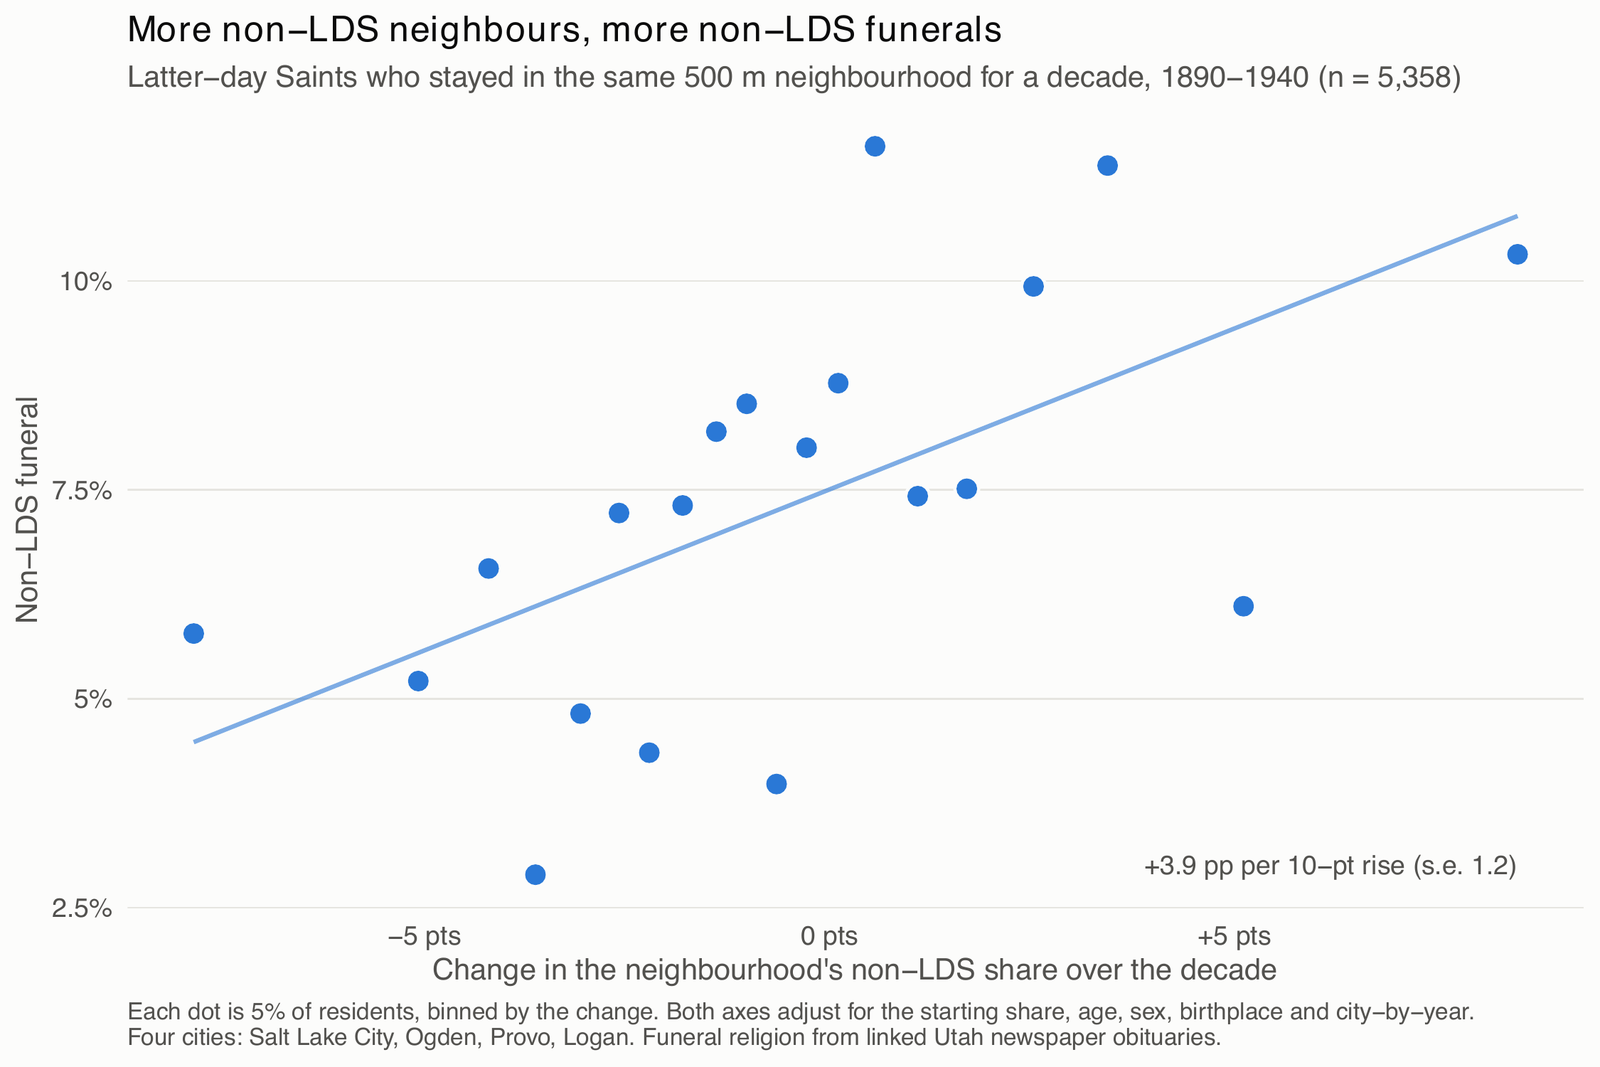
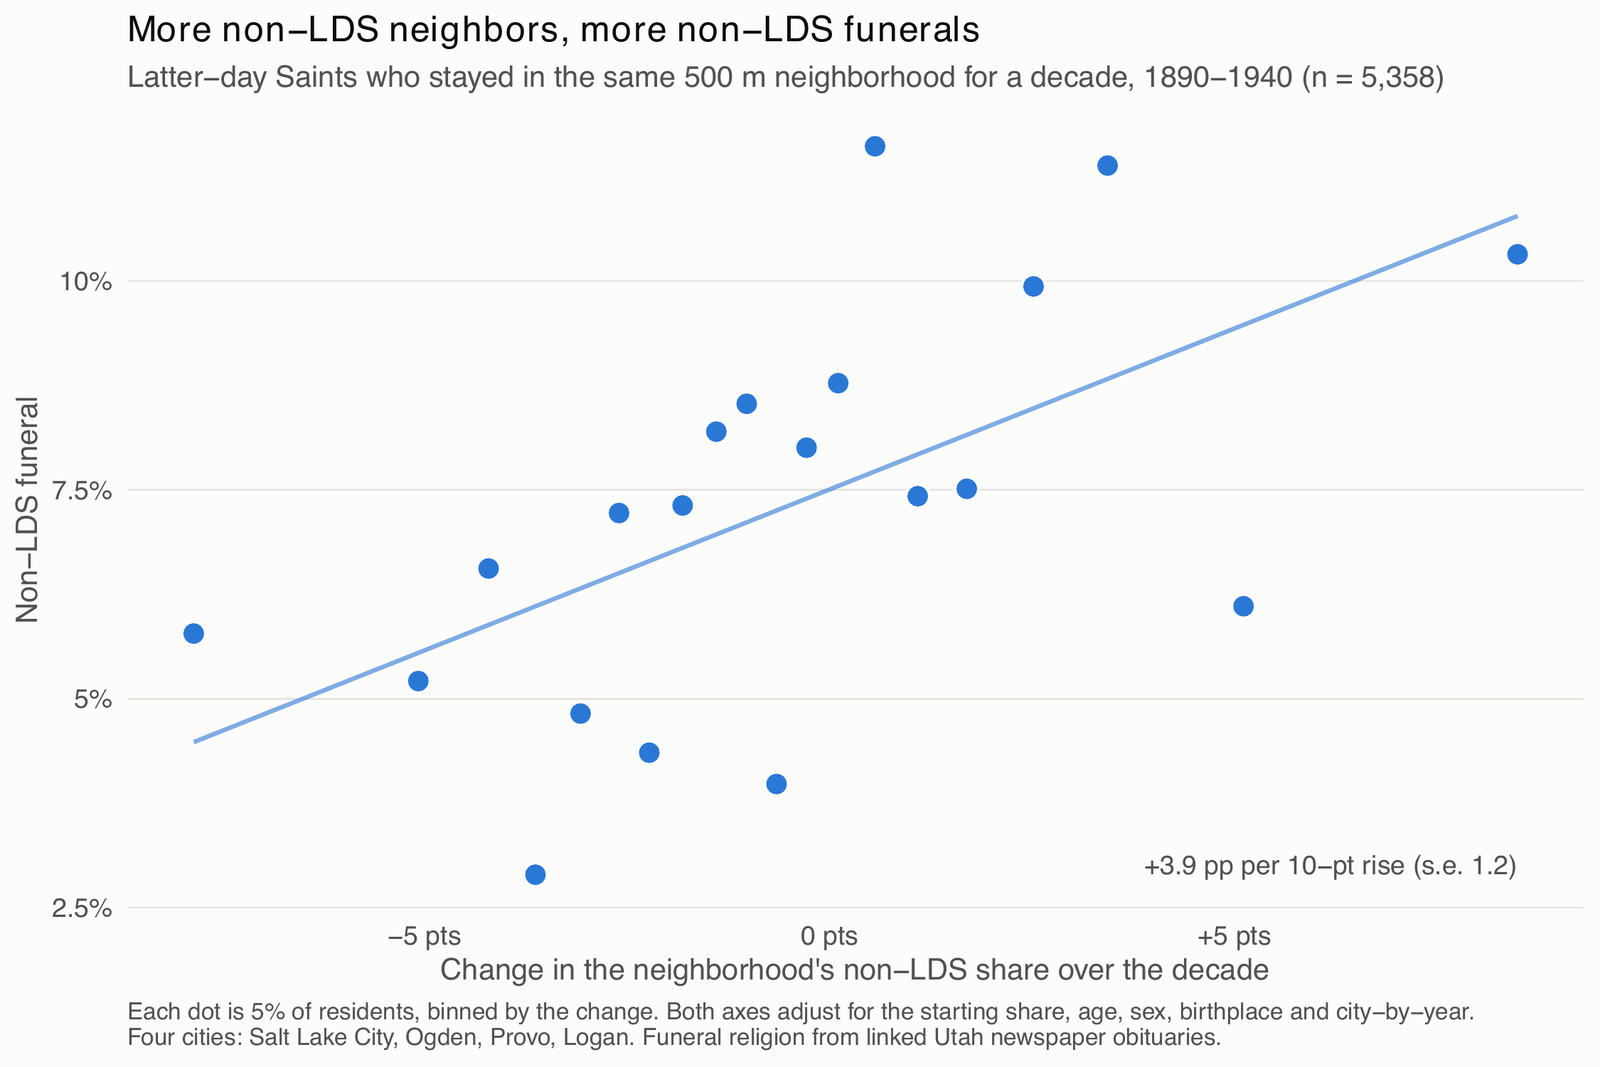
Place religious switching figure beside its abstract
Also refresh the figure with the corrected "neighbor" spelling.

Changed region(s): [[0.3438, 0.0, 0.9062, 0.0928], [0.25, 0.8969, 0.8125, 0.9278]]

diff --git a/research.md b/research.md
@@ -52,9 +52,6 @@ title: Research
   .paper-figure.side {
     flex: 0 0 36%;
   }
-  .paper-figure.wide {
-    margin-top: 1.1em;
-  }
   .paper-figure img {
     width: 100%;
     height: auto;
@@ -134,12 +131,16 @@ title: Research
   <div class="paper-title">Out-Group Contact and Religious Switching</div>
   <details class="abstract">
     <summary>Abstract</summary>
-    <p>How does out-group contact shape religious switching? The question is hard to study because shocks to contact are rare and religion is seldom measured at the granular level contact effects require. We study Latter-day Saint (LDS) Utah, where the religious divide was unusually salient, records of religious affiliation are unusually rich, and contact with other faiths can be observed as it grew from close to zero. The transcontinental railroad changed the territory&rsquo;s religious composition quickly with the non-LDS share of residents in Salt Lake City and Ogden rising from about 4 percent in 1870 to 14 percent by 1880. Because LDS church members migrated to Utah in pioneer companies, we identify initial religious affiliation from presence in a pioneer company roster and measure affiliation at the time of death by matching individuals to their obituaries which often list the church where a funeral was held. Among LDS pioneers who died as adults, 92 percent had an LDS funeral, 2 percent a funeral in another denomination, and 6 percent a funeral at a non religious location (e.g., funeral home). Religious switching increased across generations. Among pioneers&rsquo; grandchildren the shares were 89, 3 and 9 percent. Departure was more common among businessmen and higher earners, concentrated among those who stayed in the cities, and less common among former LDS missionaries and relatives of church leaders. Latter-day Saints in the four cities whose neighborhoods received more non-LDS residents were significantly more likely to have a funeral in another denomination, with a 10-percentage-point increase in a neighborhood&rsquo;s non-LDS share raising the probability by about 4 percentage points.</p>
-    <figure class="paper-figure wide">
+    <div class="paper-split">
+      <div class="paper-split-text">
+        <p>How does out-group contact shape religious switching? The question is hard to study because shocks to contact are rare and religion is seldom measured at the granular level contact effects require. We study Latter-day Saint (LDS) Utah, where the religious divide was unusually salient, records of religious affiliation are unusually rich, and contact with other faiths can be observed as it grew from close to zero. The transcontinental railroad changed the territory&rsquo;s religious composition quickly with the non-LDS share of residents in Salt Lake City and Ogden rising from about 4 percent in 1870 to 14 percent by 1880. Because LDS church members migrated to Utah in pioneer companies, we identify initial religious affiliation from presence in a pioneer company roster and measure affiliation at the time of death by matching individuals to their obituaries which often list the church where a funeral was held. Among LDS pioneers who died as adults, 92 percent had an LDS funeral, 2 percent a funeral in another denomination, and 6 percent a funeral at a non religious location (e.g., funeral home). Religious switching increased across generations. Among pioneers&rsquo; grandchildren the shares were 89, 3 and 9 percent. Departure was more common among businessmen and higher earners, concentrated among those who stayed in the cities, and less common among former LDS missionaries and relatives of church leaders. Latter-day Saints in the four cities whose neighborhoods received more non-LDS residents were significantly more likely to have a funeral in another denomination, with a 10-percentage-point increase in a neighborhood&rsquo;s non-LDS share raising the probability by about 4 percentage points.</p>
+      </div>
+      <figure class="paper-figure side">
       <a href="{{ '/images/figures/religious_switching_binscatter.png' | relative_url }}">
-        <img src="{{ '/images/figures/religious_switching_binscatter.png' | relative_url }}" width="1600" height="1067" alt="Binned scatter plot showing that Latter-day Saints in neighborhoods whose non-LDS share rose over a decade were more likely to have a non-LDS funeral, with an upward-sloping fitted line.">
+      <img src="{{ '/images/figures/religious_switching_binscatter.png' | relative_url }}" width="1600" height="1067" alt="Binned scatter plot showing that Latter-day Saints in neighborhoods whose non-LDS share rose over a decade were more likely to have a non-LDS funeral, with an upward-sloping fitted line.">
       </a>
-    </figure>
+      </figure>
+    </div>
   </details>
 </div>
 
